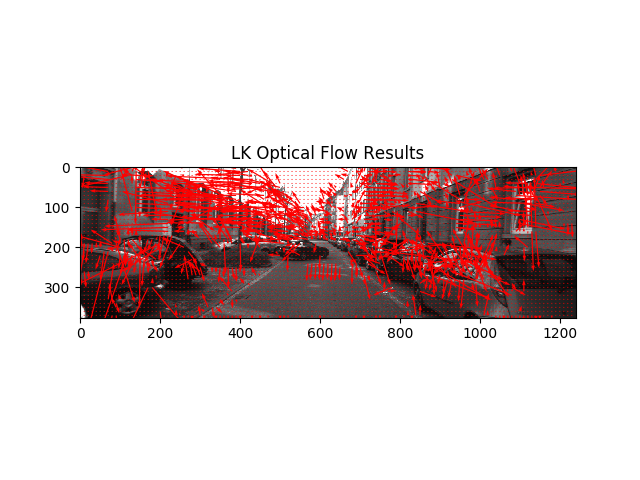
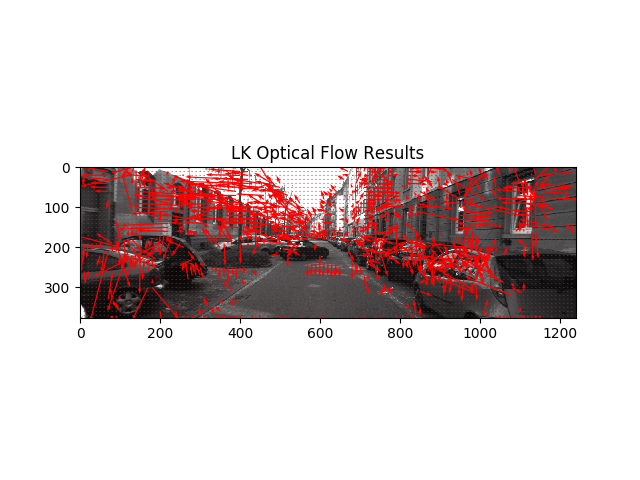
change rescale of modules

diff --git a/utils/opticalflowplot.py b/utils/opticalflowplot.py
@@ -45,17 +45,20 @@ def plot_opticalflow(opticalflow, sequence, step=10):
         image = cv2.resize(image, (0, 0), fx=1./step, fy=1./step)
         flow = convert_flow_data(image)
         valid = np.transpose(flow[:, :, 2] == 1)
-        U = np.transpose(flow[:, :, 0]/200)
-        V = np.transpose(flow[:, :, 1]/200)
+        U = np.transpose(flow[:, :, 0])
+        V = np.transpose(flow[:, :, 1])
 
         w, h = flow.shape[:2]
         U = np.reshape(U[valid], (h, w))
         V = np.reshape(V[valid], (h, w))
+
+        maxOF = max(np.max(U), np.max(V))
+
         x, y = np.meshgrid(np.arange(0, w*step, step), np.arange(0, h*step, step))
         x = np.reshape(x[valid], (h, w))
         y = np.reshape(y[valid], (h, w))
         plt.imshow(sequence[ind])
-        plt.quiver(x, y, U, -V, scale=0.1, alpha=1, color='r')
+        plt.quiver(x, y, U, -V, scale=maxOF*7, alpha=1, color='r')
         plt.title('LK Optical Flow Results')
         plt.savefig('OpticalFlow_image' + str(ind) + '.png')
         plt.show()
